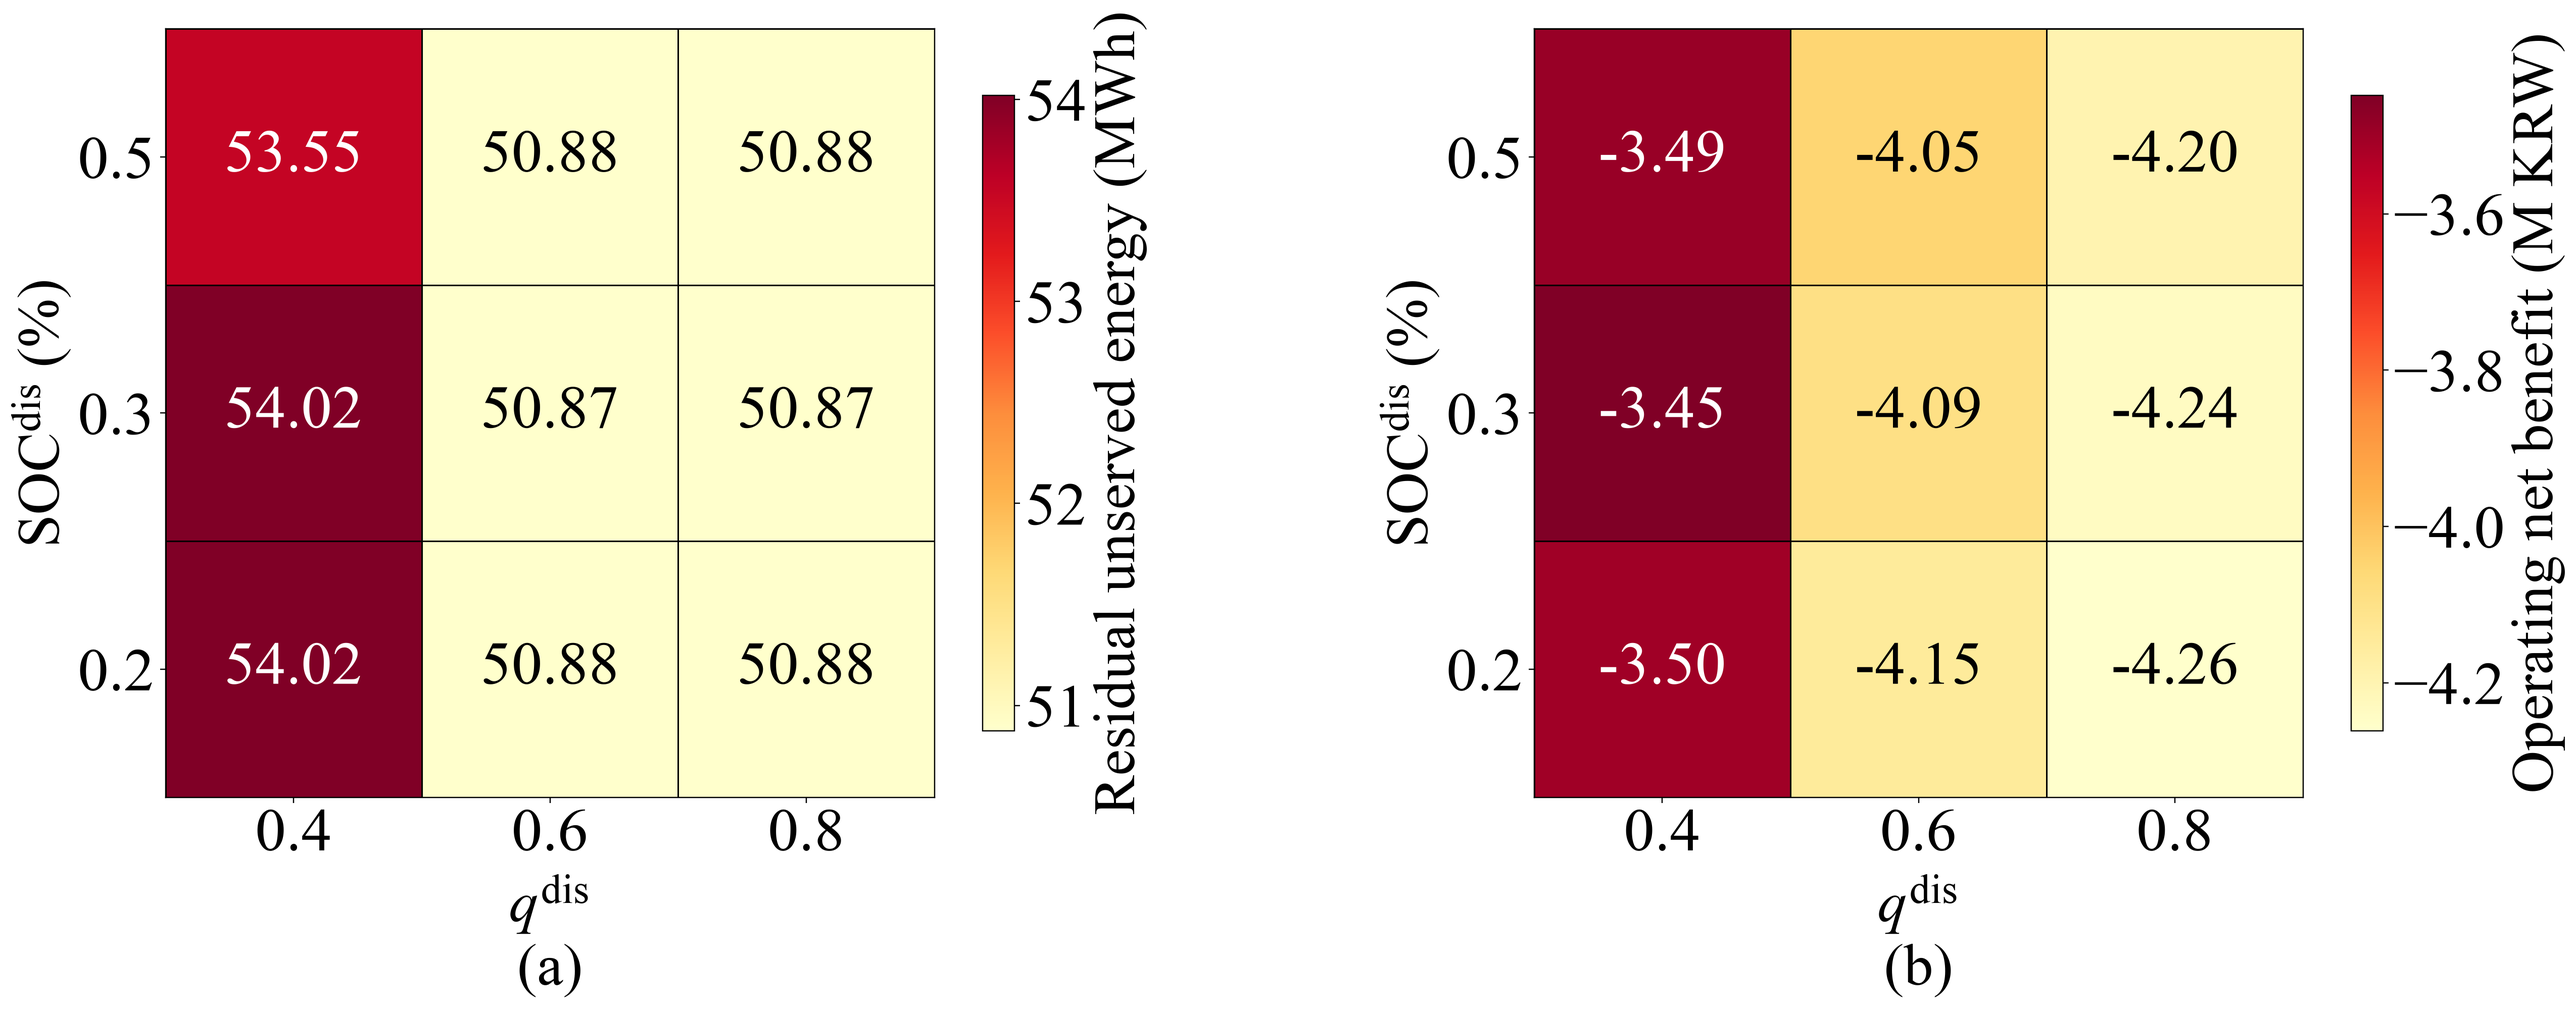
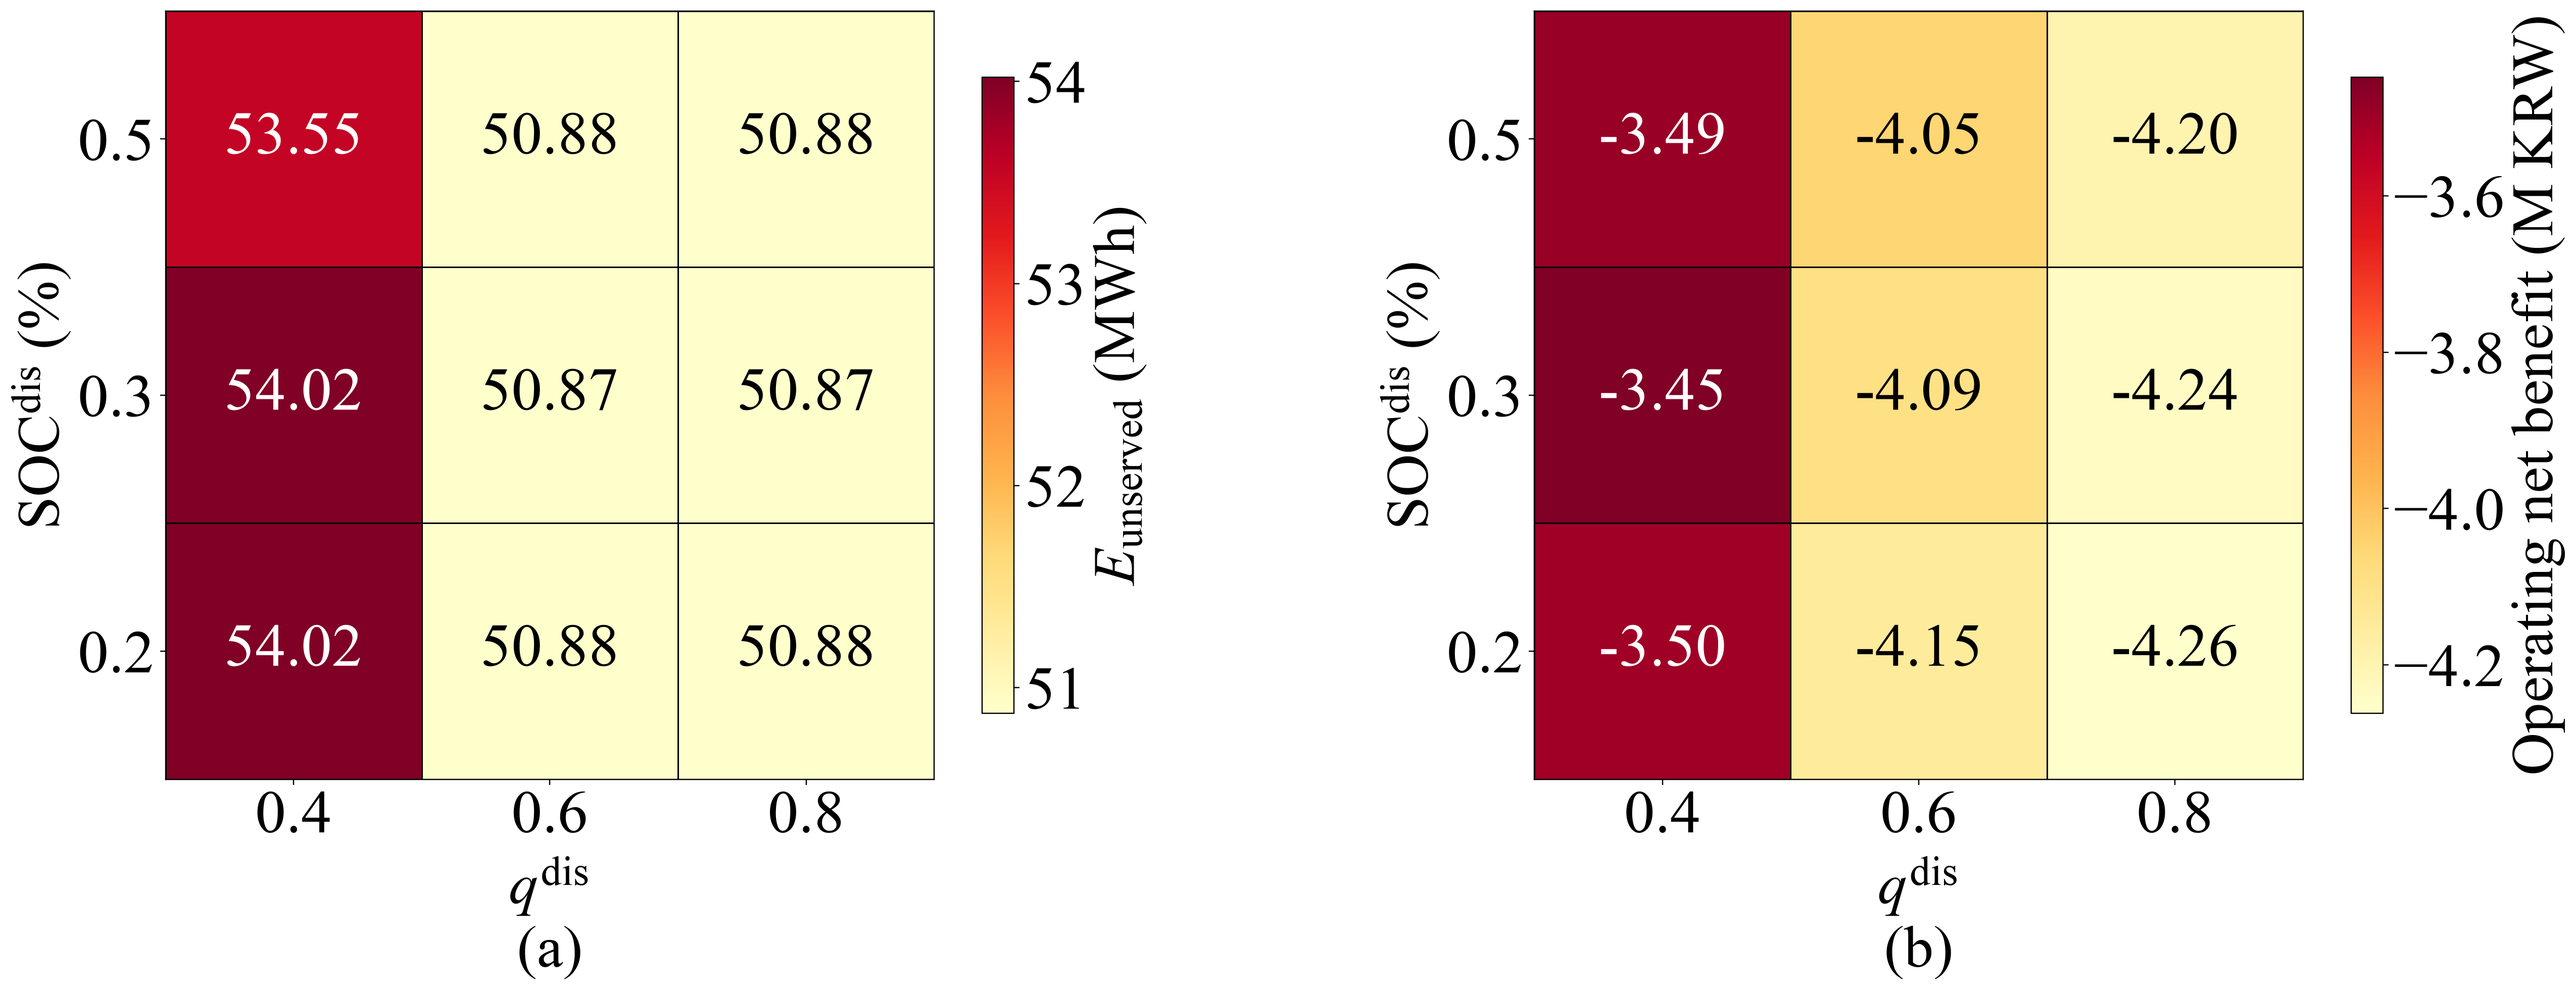
Label Figure 11 unserved energy colorbar

diff --git a/strategy_sensitivity.py b/strategy_sensitivity.py
@@ -75,7 +75,7 @@ def main() -> None:
     for ax, values, colorbar_label, cmap in zip(
         axes,
         (unserved, operating),
-        ("Residual unserved energy (MWh)", "Operating net benefit (M KRW)"),
+        (r"$E_{\mathrm{unserved}}$ (MWh)", "Operating net benefit (M KRW)"),
         ("YlOrRd", "YlOrRd"),
         strict=True,
     ):
